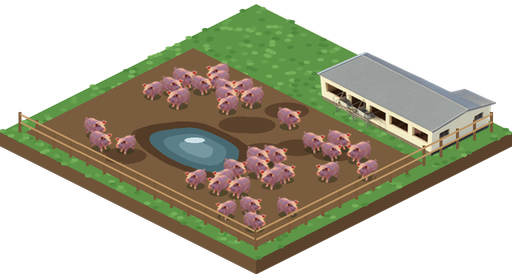
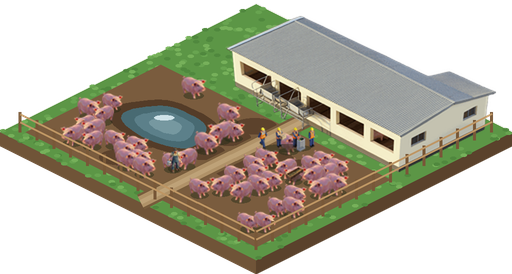
Fermes 4 cases v14 : chemin d'accès, tracteur, ouvriers, cheptels étalés, stabulation ronde pour les bovins

Changed region(s): [[0.0938, 0.0584, 0.9688, 0.8467]]

diff --git a/tools/factory_ai/parcelle.py b/tools/factory_ai/parcelle.py
@@ -227,6 +227,12 @@ def main():
                     poly(d, pts_, col + (255,))
                 hx, hy = P(mu - mru * 0.25, mv - mrv * 0.25)
                 d.ellipse([hx - 10 * SS, hy - 3 * SS, hx + 10 * SS, hy + 2 * SS], fill=(206, 226, 232, 255))
+            for it in [t for t in os.environ.get('CHEMIN', '').split(';') if t]:      # chemin d'acces : "u1:v1:u2:v2:largeur_px"
+                cu1, cv1, cu2, cv2, cw = [float(z) for z in it.split(':')]
+                pa, pb = P(cu1, cv1), P(cu2, cv2)
+                d.line([pa, pb], fill=(120, 92, 60, 255), width=int((cw + 5) * SS))
+                d.line([pa, pb], fill=(176, 146, 104, 255), width=int(cw * SS))
+                d.line([pa, pb], fill=(190, 162, 120, 255), width=int(cw * 0.45 * SS))
             for it in [t for t in os.environ.get('HAIE', '').split(';') if t]:      # haie : "u1:v1:u2:v2"
                 hu1, hv1, hu2, hv2 = [float(z) for z in it.split(':')]
                 nh = int(max(abs(hu2 - hu1), abs(hv2 - hv1)) / 0.014)
@@ -354,12 +360,12 @@ def main():
                 hh = {'bovins': 34, 'moutons': 22, 'porcs': 22, 'poulets': 15}[kind]
                 sp = sp.resize((max(1, round(sp.width * hh / sp.height)), hh), Image.LANCZOS)
                 pos = []
-                nb_ = max(8, round({'bovins': 3.0, 'moutons': 12, 'poulets': 14, 'porcs': 9}[kind] * cases * cases))
-                centres = [(rr.uniform(0.2, 0.8), rr.uniform(v1 + 0.15, 0.85)) for _ in range(6)]
+                nb_ = max(8, round({'bovins': 3.6, 'moutons': 15, 'poulets': 18, 'porcs': 11}[kind] * cases * cases))
+                centres = [(rr.uniform(0.2, 0.8), rr.uniform(v1 + 0.15, 0.85)) for _ in range(10)]
                 for _ in range(nb_):
                     for _try in range(120):
                         c_ = rr.choice(centres)
-                        uu, vv = rr.gauss(c_[0], 0.18), rr.gauss(c_[1], 0.16)
+                        uu, vv = rr.gauss(c_[0], 0.22), rr.gauss(c_[1], 0.20)
                         if any(((uu - eu) ** 2 + (vv - ev) ** 2) < er ** 2 for (eu, ev, er) in EXCL): continue
                         if 0.10 < uu < 0.90 and v1 + 0.08 < vv < 0.90 and all(abs(uu - a) + abs(vv - b) > {'bovins': 0.075, 'moutons': 0.035, 'porcs': 0.045, 'poulets': 0.028}[kind] for a, b, _f in pos):
                             pos.append((uu, vv, rr.random() < 0.5)); break
